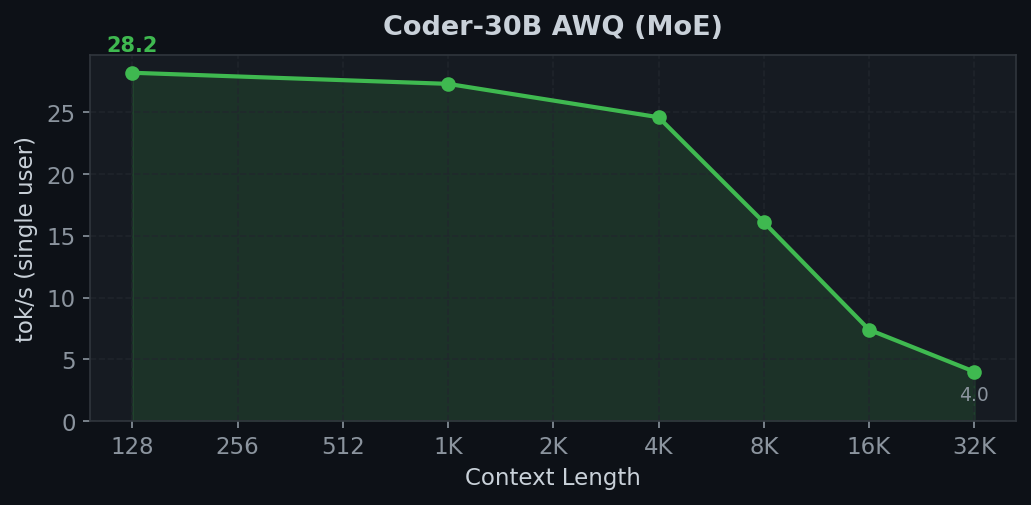
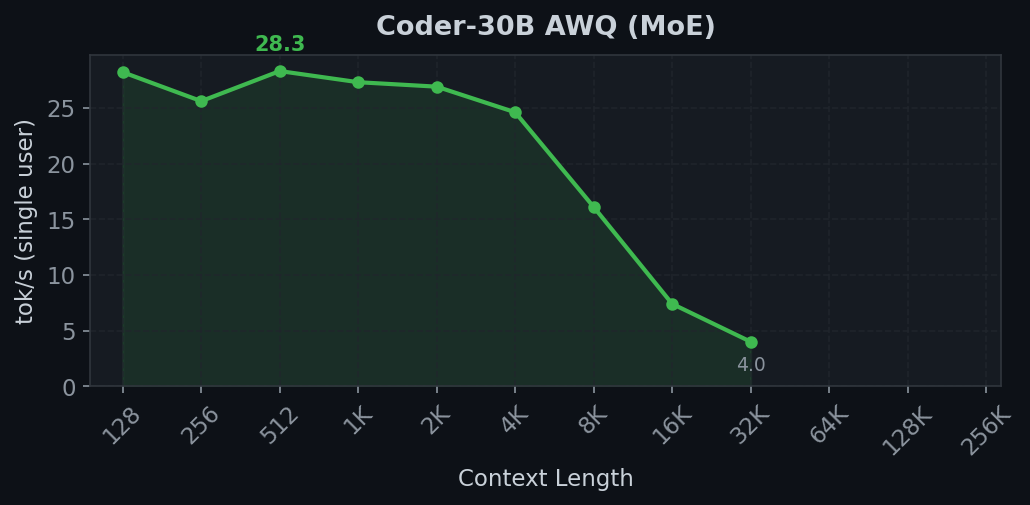
Fix charts: unified 256K x-axis, full data, OOM markers, throughput table
- All context charts use unified 256K x-axis for direct comparison
- Charts now read from results.json (all data points, not hardcoded subset)
- Devstral concurrency chart shows all 6 levels (1,2,4,8,16,32)
- Coder-Next 80B shows OOM markers at concurrency 16 and 32
- README throughput table: lead with peak total tok/s, add per-user column
- bench_all_unified.py auto-regenerates charts after saving results
- rules-for-agents: enforce chart regeneration, OOM markers, full sweeps

diff --git a/scripts/bench/generate_charts.py b/scripts/bench/generate_charts.py
@@ -1,10 +1,11 @@
 #!/usr/bin/env python3
 """Generate context-length vs performance charts for each model.
 
-Reads benchmark data inline (from README tables) and produces PNG charts
-saved to benchmarks/{model}/ directories. Designed to be embedded in README.md.
+Reads benchmark data from benchmarks/{model}/results.json and produces PNG charts.
+All context charts share a unified 256K x-axis for direct comparison.
 """
 import os
+import json
 import matplotlib
 matplotlib.use("Agg")
 import matplotlib.pyplot as plt
@@ -29,106 +30,69 @@ plt.rcParams.update({
     "font.size": 11,
 })
 
-COLORS = {
-    "devstral": "#58a6ff",
-    "coder-30b": "#3fb950",
-    "gemma4": "#d2a8ff",
-    "coder-next": "#f0883e",
-    "qwen35": "#ff7b72",
+MODELS = {
+    "devstral-24b-awq":    {"label": "Devstral-24B AWQ",                    "color": "#58a6ff"},
+    "coder-30b-awq":       {"label": "Coder-30B AWQ (MoE)",                "color": "#3fb950"},
+    "gemma4-26b-awq":      {"label": "Gemma 4 26B AWQ (MoE)",              "color": "#d2a8ff"},
+    "coder-next-80b-awq":  {"label": "Coder-Next 80B AWQ (MoE+DeltaNet)",  "color": "#f0883e"},
 }
 
-# --- Benchmark data (from README performance tables) ---
-models = {
-    "devstral-24b-awq": {
-        "label": "Devstral-24B AWQ",
-        "color": COLORS["devstral"],
-        "context": {
-            "ctx": [128, 1024, 4096, 16384, 32768, 65536, 131072, 262144],
-            "toks": [16.0, 16.9, 10.2, 9.6, 3.9, 2.2, 2.0, 0.9],
-        },
-        "concurrency": {
-            "conc": [1, 32],
-            "toks": [19.7, 13.2],
-        },
-        "note": "262K context mode (KV cache limited)",
-    },
-    "coder-30b-awq": {
-        "label": "Coder-30B AWQ (MoE)",
-        "color": COLORS["coder-30b"],
-        "context": {
-            "ctx": [128, 1024, 4096, 8192, 16384, 32768],
-            "toks": [28.2, 27.3, 24.6, 16.1, 7.4, 4.0],
-        },
-        "concurrency": {
-            "conc": [1, 4, 8, 16, 32],
-            "toks": [29.5, 50.3, 105.3, 193.2, 332.3],
-        },
-    },
-    "gemma4-26b-awq": {
-        "label": "Gemma 4 26B AWQ (MoE)",
-        "color": COLORS["gemma4"],
-        "context": {
-            "ctx": [128, 512, 1024, 2048, 4096],
-            "toks": [27.3, 26.4, 23.9, 19.9, 18.6],
-        },
-        "concurrency": {
-            "conc": [1, 4, 8, 16, 32],
-            "toks": [28.3, 23.7, 46.2, 87.8, 165.1],
-        },
-    },
-    "coder-next-80b-awq": {
-        "label": "Coder-Next 80B AWQ (MoE+DeltaNet)",
-        "color": COLORS["coder-next"],
-        "context": {
-            "ctx": [128, 1024, 4096, 8192],
-            "toks": [24.2, 22.6, 18.0, 14.4],
-        },
-        "concurrency": {
-            "conc": [1, 4, 8],
-            "toks": [24.3, 24.6, 24.6],
-        },
-    },
+# Coder-Next 80B: concurrency 16 and 32 are OOM
+OOM_CONCURRENCY = {
+    "coder-next-80b-awq": [16, 32],
 }
+
+# Unified x-axis: 128 to 256K
+UNIFIED_XLIM = (96, 300_000)
+UNIFIED_XTICKS = [128, 256, 512, 1024, 2048, 4096, 8192, 16384, 32768, 65536, 131072, 262144]
+
+# Standard concurrency levels for bar charts
+STD_CONC = [1, 2, 4, 8, 16, 32]
 
 
 def fmt_ctx(x, _):
-    """Format context length as human-readable (128, 1K, 32K, 262K)."""
     if x >= 1024:
         return f"{x / 1024:.0f}K"
     return f"{x:.0f}"
 
 
-def make_context_chart(model_key, data, out_dir):
-    """Single-user tok/s vs context length."""
-    ctx = data["context"]["ctx"]
-    toks = data["context"]["toks"]
+def load_results(model_key):
+    path = os.path.join(BENCH_DIR, model_key, "results.json")
+    with open(path) as f:
+        return json.load(f)
+
+
+def make_context_chart(model_key, meta, results, out_dir):
+    """Single-user tok/s vs context length, unified 256K x-axis."""
+    sweep = results["context_sweep"]
+    ctx = [p["context"] for p in sweep]
+    toks = [p["tok_per_sec"] for p in sweep]
 
     fig, ax = plt.subplots(figsize=(7, 3.5))
-    ax.plot(ctx, toks, "o-", color=data["color"], linewidth=2, markersize=6, zorder=5)
-    ax.fill_between(ctx, toks, alpha=0.15, color=data["color"])
+    ax.plot(ctx, toks, "o-", color=meta["color"], linewidth=2, markersize=5, zorder=5)
+    ax.fill_between(ctx, toks, alpha=0.12, color=meta["color"])
 
-    # Annotate peak and final
-    peak_idx = np.argmax(toks)
+    # Annotate peak
+    peak_idx = int(np.argmax(toks))
     ax.annotate(f"{toks[peak_idx]:.1f}", (ctx[peak_idx], toks[peak_idx]),
                 textcoords="offset points", xytext=(0, 10), ha="center",
-                fontsize=10, fontweight="bold", color=data["color"])
+                fontsize=10, fontweight="bold", color=meta["color"])
+    # Annotate final if different from peak
     if peak_idx != len(toks) - 1:
         ax.annotate(f"{toks[-1]:.1f}", (ctx[-1], toks[-1]),
                     textcoords="offset points", xytext=(0, -14), ha="center",
                     fontsize=9, color="#8b949e")
 
     ax.set_xscale("log", base=2)
+    ax.set_xlim(*UNIFIED_XLIM)
     ax.xaxis.set_major_formatter(ticker.FuncFormatter(fmt_ctx))
+    ax.xaxis.set_major_locator(ticker.FixedLocator(UNIFIED_XTICKS))
+    ax.tick_params(axis="x", rotation=45)
     ax.set_xlabel("Context Length")
     ax.set_ylabel("tok/s (single user)")
-    ax.set_title(data["label"], fontsize=13, fontweight="bold", pad=10)
+    ax.set_title(meta["label"], fontsize=13, fontweight="bold", pad=10)
     ax.grid(True, axis="both", linestyle="--")
     ax.set_ylim(bottom=0)
-
-    note = data.get("note")
-    if note:
-        ax.text(0.98, 0.95, note, transform=ax.transAxes, fontsize=8,
-                ha="right", va="top", color="#8b949e", style="italic")
 
     fig.tight_layout()
     path = os.path.join(out_dir, "context_vs_toks.png")
@@ -137,26 +101,51 @@ def make_context_chart(model_key, data, out_dir):
     print(f"  {path}")
 
 
-def make_concurrency_chart(model_key, data, out_dir):
-    """Throughput vs concurrency."""
-    conc = data["concurrency"]["conc"]
-    toks = data["concurrency"]["toks"]
+def make_concurrency_chart(model_key, meta, results, out_dir):
+    """Total throughput vs concurrency, with OOM markers."""
+    sweep = results["throughput_sweep"]
+    measured = {p["concurrency"]: p["tok_per_sec"] for p in sweep}
+    oom_levels = OOM_CONCURRENCY.get(model_key, [])
+
+    conc_levels = sorted(set(STD_CONC) | set(measured.keys()) | set(oom_levels))
+    labels = []
+    values = []
+    colors = []
+    is_oom = []
+
+    for c in conc_levels:
+        labels.append(str(c))
+        if c in oom_levels:
+            values.append(0)
+            colors.append("#30363d")
+            is_oom.append(True)
+        elif c in measured:
+            values.append(measured[c])
+            colors.append(meta["color"])
+            is_oom.append(False)
+        else:
+            continue  # skip levels we don't have data for and aren't OOM
 
     fig, ax = plt.subplots(figsize=(7, 3.5))
-    ax.bar(range(len(conc)), toks, color=data["color"], alpha=0.85, width=0.6, zorder=5)
+    bars = ax.bar(range(len(values)), values, color=colors, alpha=0.85, width=0.6, zorder=5)
 
-    # Value labels on bars
-    for i, (c, t) in enumerate(zip(conc, toks)):
-        ax.text(i, t + max(toks) * 0.02, f"{t:.0f}", ha="center", fontsize=10,
-                fontweight="bold", color=data["color"])
+    # Value labels
+    y_max = max(v for v in values if v > 0) if any(v > 0 for v in values) else 1
+    for i, (v, oom) in enumerate(zip(values, is_oom)):
+        if oom:
+            ax.text(i, y_max * 0.03, "OOM", ha="center", fontsize=10,
+                    fontweight="bold", color="#f85149")
+        else:
+            ax.text(i, v + y_max * 0.02, f"{v:.0f}", ha="center", fontsize=10,
+                    fontweight="bold", color=meta["color"])
 
-    ax.set_xticks(range(len(conc)))
-    ax.set_xticklabels([str(c) for c in conc])
+    ax.set_xticks(range(len(labels)))
+    ax.set_xticklabels(labels)
     ax.set_xlabel("Concurrent Requests")
     ax.set_ylabel("Total tok/s")
-    ax.set_title(f"{data['label']} — Throughput Scaling", fontsize=13, fontweight="bold", pad=10)
+    ax.set_title(f"{meta['label']} — Throughput Scaling", fontsize=13, fontweight="bold", pad=10)
     ax.grid(True, axis="y", linestyle="--")
-    ax.set_ylim(bottom=0, top=max(toks) * 1.15)
+    ax.set_ylim(bottom=0, top=y_max * 1.15)
 
     fig.tight_layout()
     path = os.path.join(out_dir, "concurrency_vs_toks.png")
@@ -165,18 +154,22 @@ def make_concurrency_chart(model_key, data, out_dir):
     print(f"  {path}")
 
 
-def make_combined_context_chart():
-    """All models on one context-length chart for comparison."""
+def make_combined_context_chart(all_data):
+    """All models on one context chart, unified 256K x-axis."""
     fig, ax = plt.subplots(figsize=(8, 4.5))
 
-    for key, data in models.items():
-        ctx = data["context"]["ctx"]
-        toks = data["context"]["toks"]
-        ax.plot(ctx, toks, "o-", color=data["color"], linewidth=2, markersize=5,
-                label=data["label"], zorder=5)
+    for key, (meta, results) in all_data.items():
+        sweep = results["context_sweep"]
+        ctx = [p["context"] for p in sweep]
+        toks = [p["tok_per_sec"] for p in sweep]
+        ax.plot(ctx, toks, "o-", color=meta["color"], linewidth=2, markersize=5,
+                label=meta["label"], zorder=5)
 
     ax.set_xscale("log", base=2)
+    ax.set_xlim(*UNIFIED_XLIM)
     ax.xaxis.set_major_formatter(ticker.FuncFormatter(fmt_ctx))
+    ax.xaxis.set_major_locator(ticker.FixedLocator(UNIFIED_XTICKS))
+    ax.tick_params(axis="x", rotation=45)
     ax.set_xlabel("Context Length")
     ax.set_ylabel("tok/s (single user)")
     ax.set_title("All Models — Context Length vs Decode Speed", fontsize=13, fontweight="bold", pad=10)
@@ -192,15 +185,16 @@ def make_combined_context_chart():
     print(f"  {path}")
 
 
-def make_combined_concurrency_chart():
-    """All models on one concurrency chart for comparison."""
+def make_combined_concurrency_chart(all_data):
+    """All models on one concurrency chart."""
     fig, ax = plt.subplots(figsize=(8, 4.5))
 
-    for key, data in models.items():
-        conc = data["concurrency"]["conc"]
-        toks = data["concurrency"]["toks"]
-        ax.plot(conc, toks, "o-", color=data["color"], linewidth=2, markersize=5,
-                label=data["label"], zorder=5)
+    for key, (meta, results) in all_data.items():
+        sweep = results["throughput_sweep"]
+        conc = [p["concurrency"] for p in sweep]
+        toks = [p["tok_per_sec"] for p in sweep]
+        ax.plot(conc, toks, "o-", color=meta["color"], linewidth=2, markersize=5,
+                label=meta["label"], zorder=5)
 
     ax.set_xlabel("Concurrent Requests")
     ax.set_ylabel("Total tok/s")
@@ -220,18 +214,19 @@ def make_combined_concurrency_chart():
 if __name__ == "__main__":
     print("Generating benchmark charts...\n")
 
-    # Per-model charts
-    for key, data in models.items():
+    all_data = {}
+    for key, meta in MODELS.items():
         out_dir = os.path.join(BENCH_DIR, key)
         os.makedirs(out_dir, exist_ok=True)
-        print(f"{data['label']}:")
-        make_context_chart(key, data, out_dir)
-        make_concurrency_chart(key, data, out_dir)
+        results = load_results(key)
+        all_data[key] = (meta, results)
+        print(f"{meta['label']}:")
+        make_context_chart(key, meta, results, out_dir)
+        make_concurrency_chart(key, meta, results, out_dir)
         print()
 
-    # Combined comparison charts
     print("Combined:")
-    make_combined_context_chart()
-    make_combined_concurrency_chart()
+    make_combined_context_chart(all_data)
+    make_combined_concurrency_chart(all_data)
 
     print("\nDone!")

diff --git a/scripts/bench/bench_all_unified.py b/scripts/bench/bench_all_unified.py
@@ -163,6 +163,13 @@ def main():
         json.dump(all_results, f, indent=2)
     print(f"\nResults saved to {out_path}")
 
+    # Regenerate benchmark charts
+    chart_script = os.path.join(os.path.dirname(__file__), "generate_charts.py")
+    if os.path.exists(chart_script):
+        print("\nRegenerating benchmark charts...")
+        import subprocess
+        subprocess.run([sys.executable, chart_script], check=False)
+
 
 if __name__ == "__main__":
     main()

diff --git a/README.md b/README.md
@@ -67,12 +67,12 @@ All models run on SGLang with RDNA4 patches. vLLM/llama.cpp used for comparison 
 
 ### Throughput (short context, max batching)
 
-| Model | Type | 1-user tok/s | Peak tok/s | Context | Launch | Status |
-|-------|------|:------------:|:----------:|:-------:|:------:|:------:|
-| Coder-30B AWQ | MoE (128 experts) | 28 | 332 @32 | 32K | `launch.sh coder-30b` | Working |
-| Gemma 4 26B AWQ | MoE (128 experts) | 27 | 165 @32 | 4K | `launch.sh gemma4` | Working |
-| Coder-Next 80B AWQ | MoE+DeltaNet (512 experts) | 24 | 25 @8 | 8K | `launch.sh coder-next` | Working |
-| Devstral-24B AWQ | Dense (32K mode) | 78 | 1,266 @64 | 32K | `launch.sh devstral` | Working |
+| Model | Type | Peak total tok/s | Per-user @peak | Context | Launch | Status |
+|-------|------|:----------------:|:--------------:|:-------:|:------:|:------:|
+| Devstral-24B AWQ | Dense (32K mode) | 1,266 @64 | 20 | 32K | `launch.sh devstral` | Working |
+| Coder-30B AWQ | MoE (128 experts) | 332 @32 | 10 | 32K | `launch.sh coder-30b` | Working |
+| Gemma 4 26B AWQ | MoE (128 experts) | 165 @32 | 5 | 4K | `launch.sh gemma4` | Working |
+| Coder-Next 80B AWQ | MoE+DeltaNet (512 experts) | 25 @8 | 3 | 8K | `launch.sh coder-next` | Working |
 
 ### Long context (single user, max context window)
 

diff --git a/rules-for-agents.md b/rules-for-agents.md
@@ -93,8 +93,12 @@ tokens via `S(t) = gating * S(t-1) + delta`. INT4 quantization destroys output q
 - Activation fn: `AWQTritonMoEMethod` reads `MoeRunnerConfig.activation` — Gemma4=gelu, Qwen=silu
 
 ## Benchmarking
-- Concurrency sweep: 1, 4, 8, 16, 32
+- Concurrency sweep: 1, 2, 4, 8, 16, 32
+- Context sweep: all powers of 2 from 128 up to the model's max context length
 - Save to `benchmarks/{model}/results.json` (structured data) and `benchmarks/{model}/README.md` (prose + comparison tables)
+- After updating results.json, **always regenerate charts**: `python scripts/bench/generate_charts.py`
+- Charts are embedded in README.md — all context charts use a unified 256K x-axis for comparison
+- Concurrency charts must show OOM for levels that exceed VRAM (don't just omit them)
 - Run `scripts/eval/eval_comprehensive.py` after kernel changes
 - Always use timeouts on GPU/Docker commands
 - DeltaNet hybrid models: throughput is flat (VRAM-limited by BF16 weight reads)
